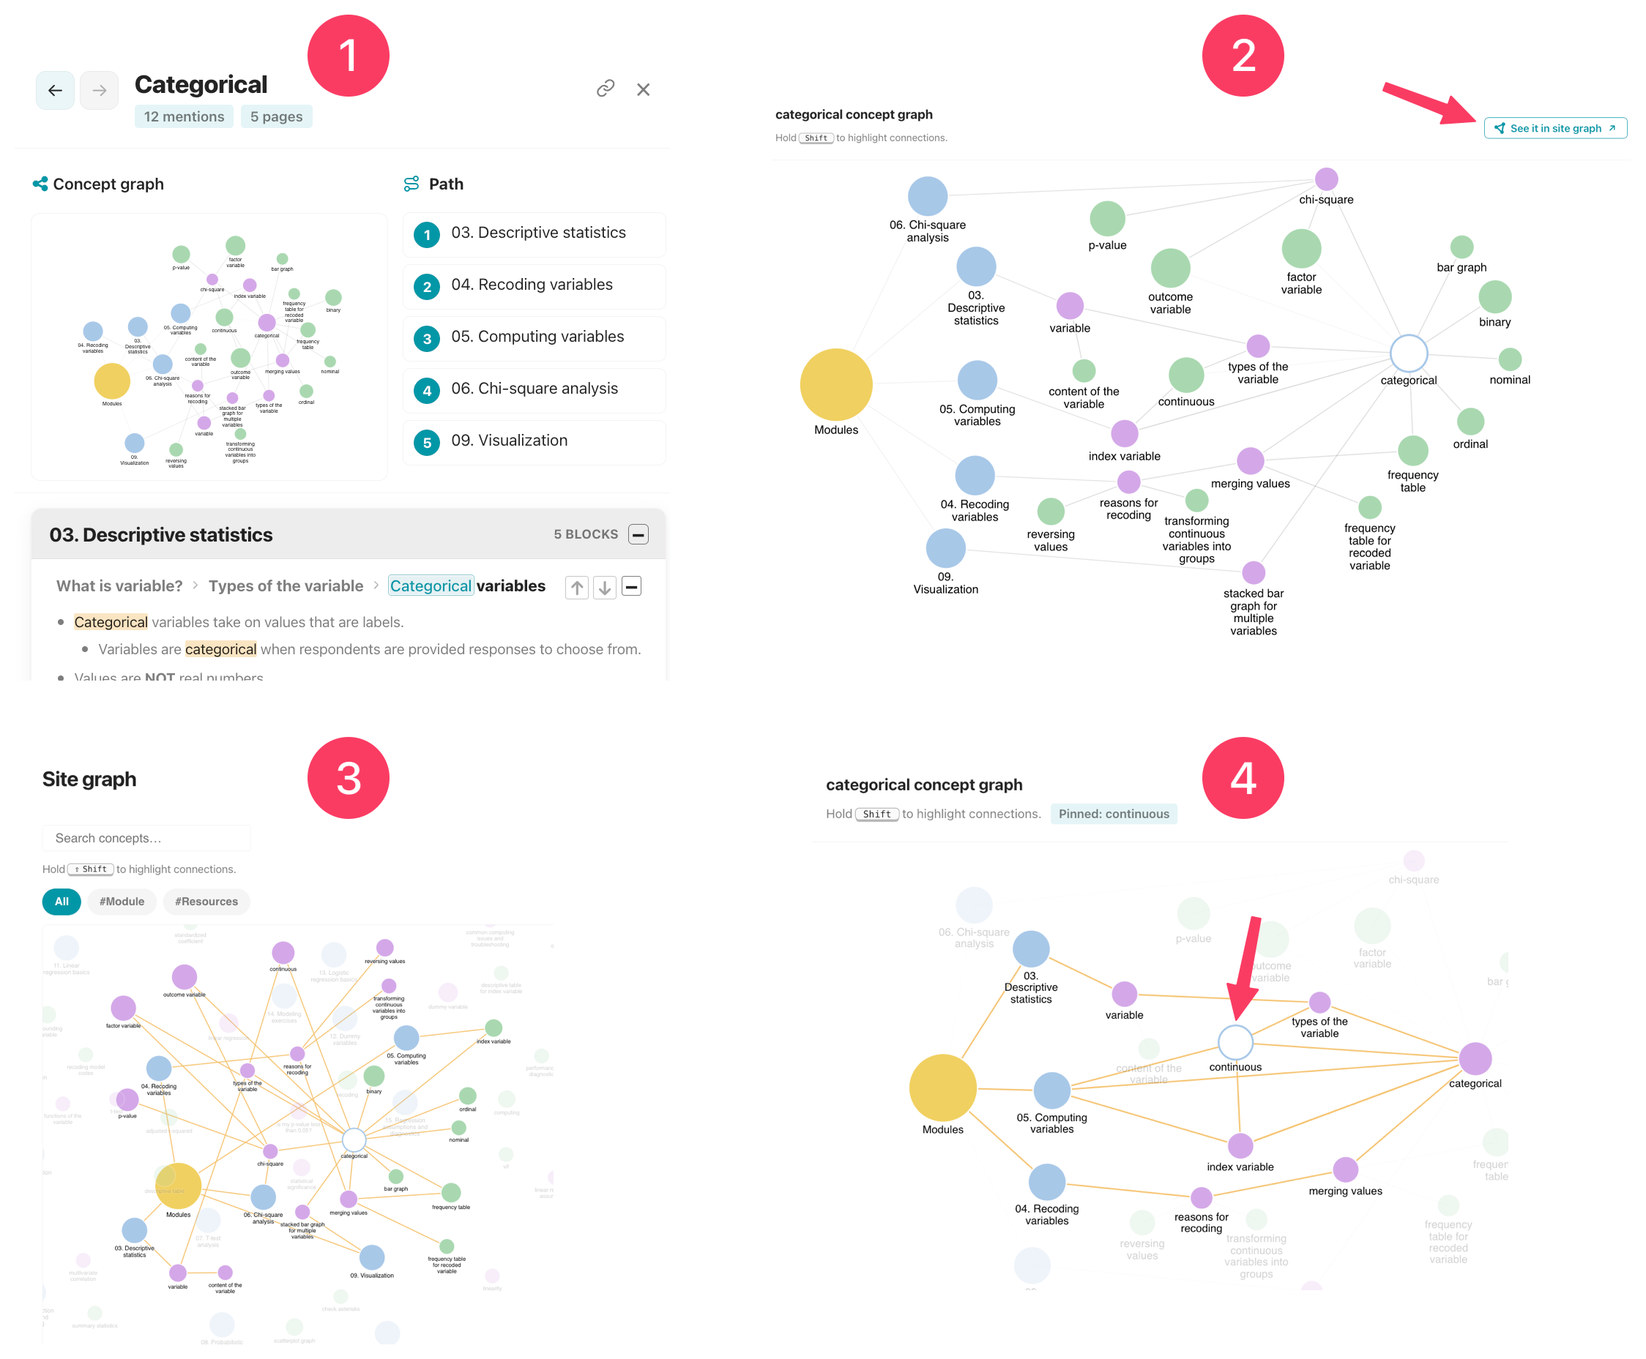
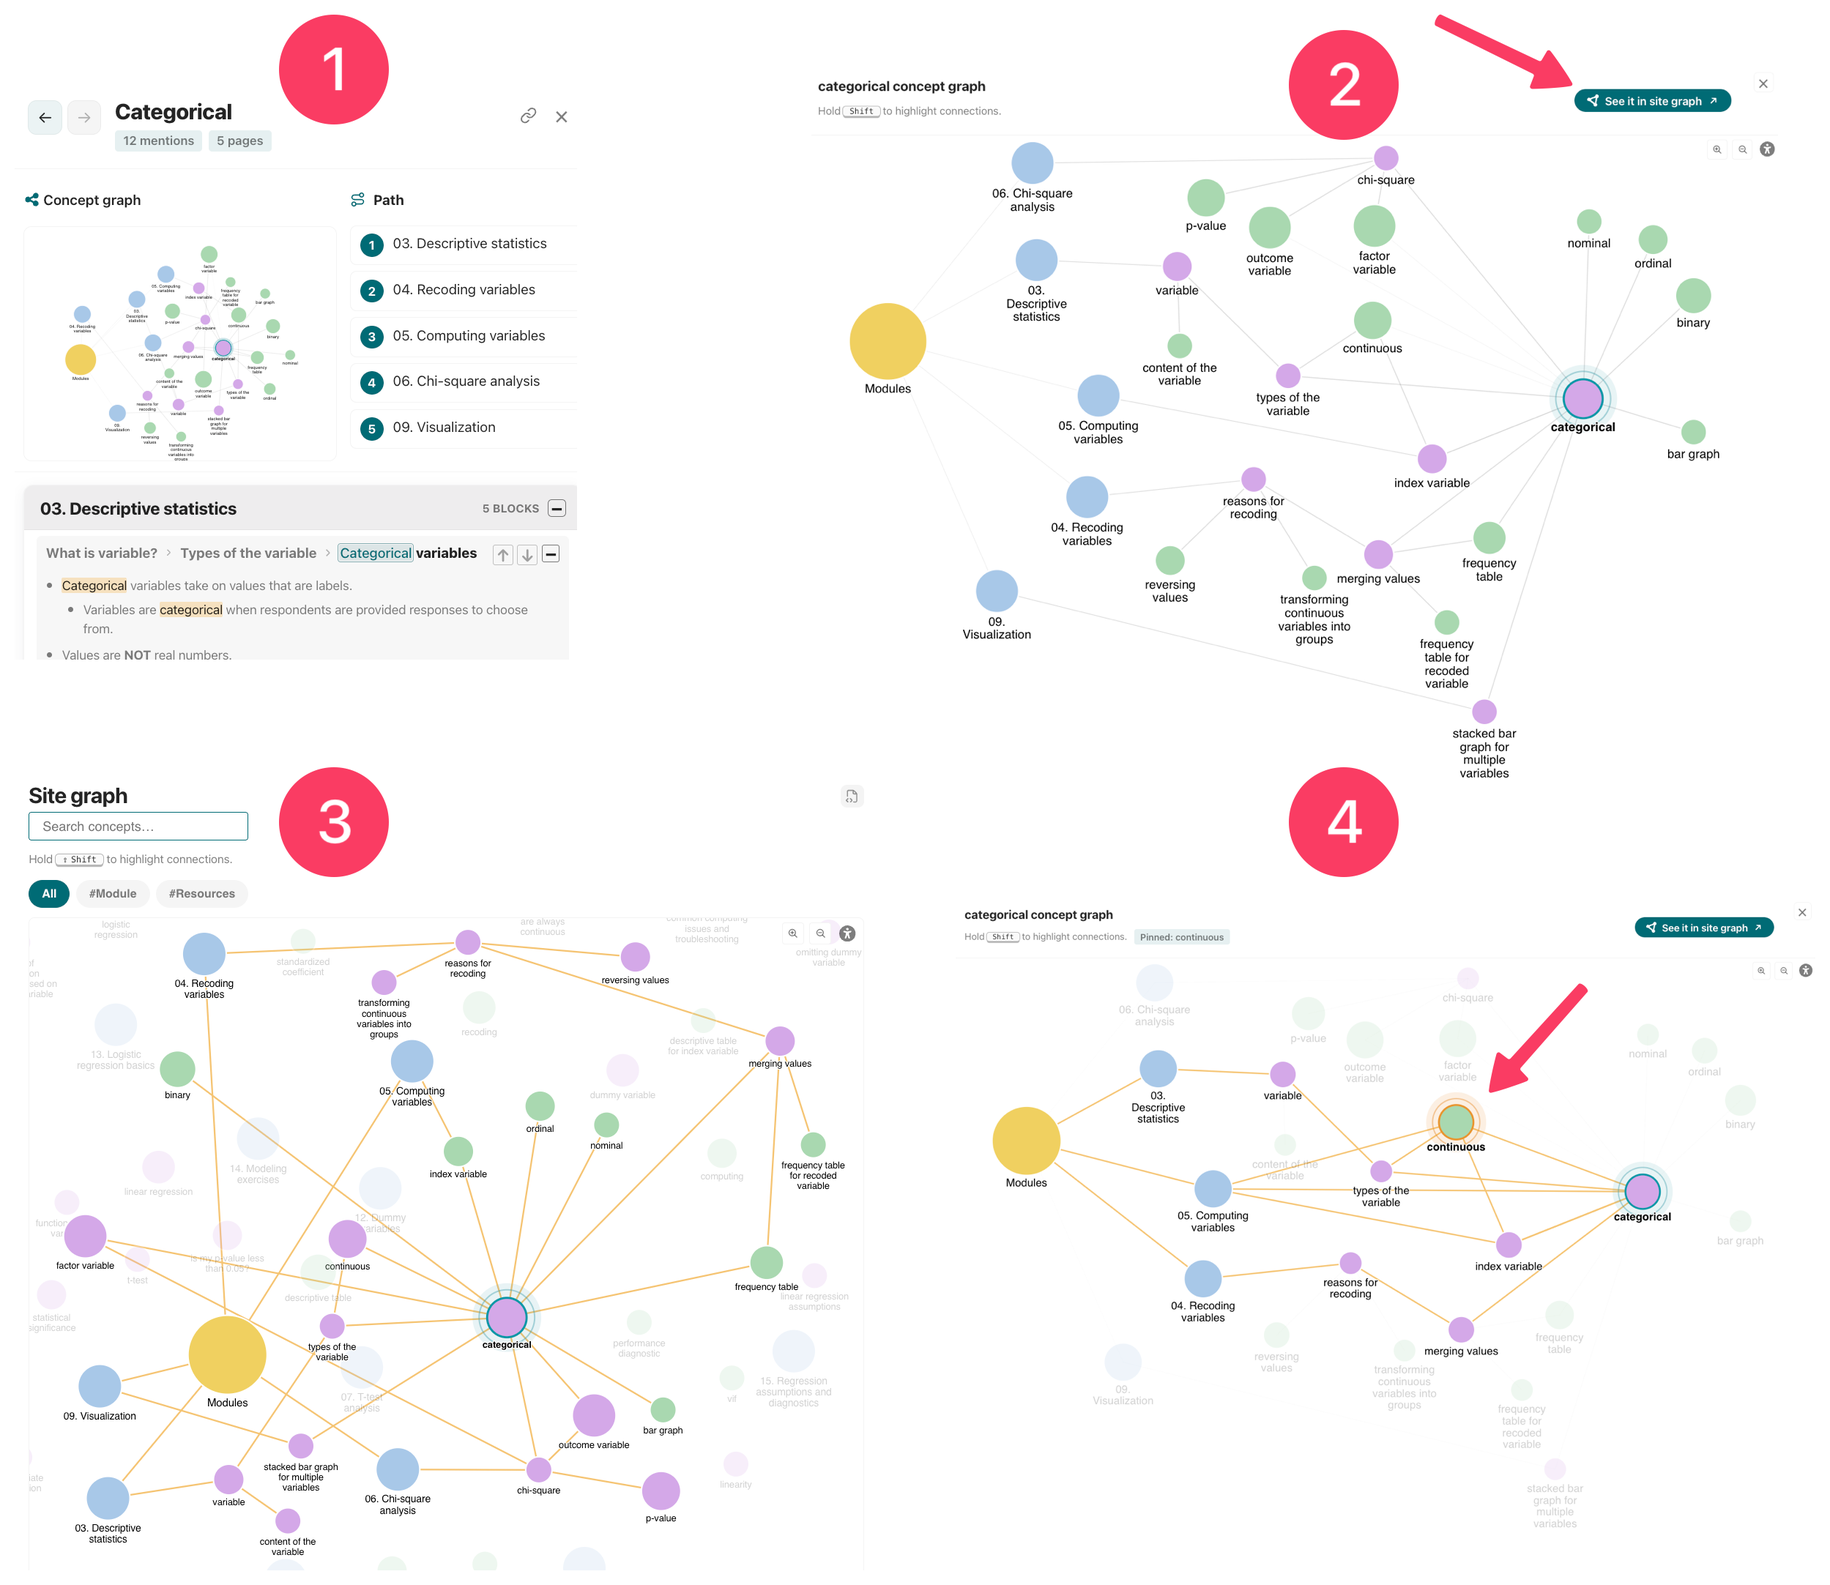
edit

diff --git a/docs/explore/glossary.md b/docs/explore/glossary.md
@@ -262,8 +262,8 @@ Click any keyword to see every occurrence with full context.
 
 ## Z
 
-<strong><button type="button" class="wikilink" data-keyword="zensical" aria-haspopup="true">zensical</button></strong> — *3 pages*  
-[What is Knotis?](getting-started/what-is-knotis/) · [Install Knotis](getting-started/install-knotis/) · [Search feature](features/search-feature/)
+<strong><button type="button" class="wikilink" data-keyword="zensical" aria-haspopup="true">zensical</button></strong> — *2 pages*  
+[Install Knotis](getting-started/install-knotis/) · [Search feature](features/search-feature/)
 
 <strong><button type="button" class="wikilink" data-keyword="zensical.toml" aria-haspopup="true">zensical.toml</button></strong> — *11 pages*  
 [Install Knotis](getting-started/install-knotis/) · [Author the site](getting-started/author-the-site/) · [Publish the site](getting-started/publish-the-site/) · [Wikilinks feature](features/wikilinks-feature/) · [Pane feature](features/pane-feature/) · [Graphs feature](features/graphs-feature/) · [Content tags feature](features/content-tags-feature/) · [Glossary feature](features/glossary-feature/) · [Slide mode feature](features/slide-mode-feature/) · [Search feature](features/search-feature/) · [Read aloud feature](features/read-aloud-feature/)
@@ -349,9 +349,6 @@ Click any keyword to see every occurrence with full context.
 <strong><button type="button" class="wikilink" data-keyword="yaml" aria-haspopup="true">yaml</button></strong> — *3 mentions · 1 page*  
 [Author the site](getting-started/author-the-site/)
 
-<strong><button type="button" class="wikilink" data-keyword="zensical" aria-haspopup="true">zensical</button></strong> — *3 mentions · 3 pages*  
-[What is Knotis?](getting-started/what-is-knotis/) · [Install Knotis](getting-started/install-knotis/) · [Search feature](features/search-feature/)
-
 <strong><button type="button" class="wikilink" data-keyword="admonition" aria-haspopup="true">admonition</button></strong> — *2 mentions · 2 pages*  
 [What is Knotis?](getting-started/what-is-knotis/) · [Outlining feature](features/outlining-feature/)
 
@@ -384,6 +381,9 @@ Click any keyword to see every occurrence with full context.
 
 <strong><button type="button" class="wikilink" data-keyword="video controls" aria-haspopup="true">video controls</button></strong> — *2 mentions · 2 pages*  
 [What is Knotis?](getting-started/what-is-knotis/) · [Video controls feature](features/video-controls-feature/)
+
+<strong><button type="button" class="wikilink" data-keyword="zensical" aria-haspopup="true">zensical</button></strong> — *2 mentions · 2 pages*  
+[Install Knotis](getting-started/install-knotis/) · [Search feature](features/search-feature/)
 
 <strong><button type="button" class="wikilink" data-keyword="alias" aria-haspopup="true">alias</button></strong> — *1 mention · 1 page*  
 [Wikilinks feature](features/wikilinks-feature/)
@@ -484,15 +484,15 @@ Click any keyword to see every occurrence with full context.
 
 ## What is Knotis?
 
-> 26 new
+> 25 new
 
-<div class="glossary-module-concepts"><span class="glossary-tag"><strong><button type="button" class="wikilink" data-keyword="knotis" aria-haspopup="true">knotis</button></strong></span><span class="glossary-tag"><strong><button type="button" class="wikilink" data-keyword="zensical" aria-haspopup="true">zensical</button></strong></span><span class="glossary-tag"><strong><button type="button" class="wikilink" data-keyword="features at glance" aria-haspopup="true">features at glance</button></strong></span><span class="glossary-tag"><strong><button type="button" class="wikilink" data-keyword="outlining" aria-haspopup="true">outlining</button></strong></span><span class="glossary-tag"><strong><button type="button" class="wikilink" data-keyword="bullets" aria-haspopup="true">bullets</button></strong></span><span class="glossary-tag"><strong><button type="button" class="wikilink" data-keyword="numbered list" aria-haspopup="true">numbered list</button></strong></span><span class="glossary-tag"><strong><button type="button" class="wikilink" data-keyword="markdown table" aria-haspopup="true">markdown table</button></strong></span><span class="glossary-tag"><strong><button type="button" class="wikilink" data-keyword="image" aria-haspopup="true">image</button></strong></span><span class="glossary-tag"><strong><button type="button" class="wikilink" data-keyword="mermaid diagram" aria-haspopup="true">mermaid diagram</button></strong></span><span class="glossary-tag"><strong><button type="button" class="wikilink" data-keyword="admonition" aria-haspopup="true">admonition</button></strong></span><span class="glossary-tag"><strong><button type="button" class="wikilink" data-keyword="code block" aria-haspopup="true">code block</button></strong></span><span class="glossary-tag"><strong><button type="button" class="wikilink" data-keyword="video" aria-haspopup="true">video</button></strong></span><span class="glossary-tag"><strong><button type="button" class="wikilink" data-keyword="wikilink" aria-haspopup="true">wikilink</button></strong></span><span class="glossary-tag"><strong><button type="button" class="wikilink" data-keyword="pane" aria-haspopup="true">pane</button></strong></span><span class="glossary-tag"><strong><button type="button" class="wikilink" data-keyword="reference" aria-haspopup="true">reference</button></strong></span><span class="glossary-tag"><strong><button type="button" class="wikilink" data-keyword="sample reference" aria-haspopup="true">sample reference</button></strong></span><span class="glossary-tag"><strong><button type="button" class="wikilink" data-keyword="graphs" aria-haspopup="true">graphs</button></strong></span><span class="glossary-tag"><strong><button type="button" class="wikilink" data-keyword="concept graph" aria-haspopup="true">concept graph</button></strong></span><span class="glossary-tag"><strong><button type="button" class="wikilink" data-keyword="page graph" aria-haspopup="true">page graph</button></strong></span><span class="glossary-tag"><strong><button type="button" class="wikilink" data-keyword="site graph" aria-haspopup="true">site graph</button></strong></span><span class="glossary-tag"><strong><button type="button" class="wikilink" data-keyword="content tags" aria-haspopup="true">content tags</button></strong></span><span class="glossary-tag"><strong><button type="button" class="wikilink" data-keyword="glossary" aria-haspopup="true">glossary</button></strong></span><span class="glossary-tag"><strong><button type="button" class="wikilink" data-keyword="slide mode" aria-haspopup="true">slide mode</button></strong></span><span class="glossary-tag"><strong><button type="button" class="wikilink" data-keyword="search" aria-haspopup="true">search</button></strong></span><span class="glossary-tag"><strong><button type="button" class="wikilink" data-keyword="read aloud" aria-haspopup="true">read aloud</button></strong></span><span class="glossary-tag"><strong><button type="button" class="wikilink" data-keyword="video controls" aria-haspopup="true">video controls</button></strong></span></div>
+<div class="glossary-module-concepts"><span class="glossary-tag"><strong><button type="button" class="wikilink" data-keyword="knotis" aria-haspopup="true">knotis</button></strong></span><span class="glossary-tag"><strong><button type="button" class="wikilink" data-keyword="features at glance" aria-haspopup="true">features at glance</button></strong></span><span class="glossary-tag"><strong><button type="button" class="wikilink" data-keyword="outlining" aria-haspopup="true">outlining</button></strong></span><span class="glossary-tag"><strong><button type="button" class="wikilink" data-keyword="bullets" aria-haspopup="true">bullets</button></strong></span><span class="glossary-tag"><strong><button type="button" class="wikilink" data-keyword="numbered list" aria-haspopup="true">numbered list</button></strong></span><span class="glossary-tag"><strong><button type="button" class="wikilink" data-keyword="markdown table" aria-haspopup="true">markdown table</button></strong></span><span class="glossary-tag"><strong><button type="button" class="wikilink" data-keyword="image" aria-haspopup="true">image</button></strong></span><span class="glossary-tag"><strong><button type="button" class="wikilink" data-keyword="mermaid diagram" aria-haspopup="true">mermaid diagram</button></strong></span><span class="glossary-tag"><strong><button type="button" class="wikilink" data-keyword="admonition" aria-haspopup="true">admonition</button></strong></span><span class="glossary-tag"><strong><button type="button" class="wikilink" data-keyword="code block" aria-haspopup="true">code block</button></strong></span><span class="glossary-tag"><strong><button type="button" class="wikilink" data-keyword="video" aria-haspopup="true">video</button></strong></span><span class="glossary-tag"><strong><button type="button" class="wikilink" data-keyword="wikilink" aria-haspopup="true">wikilink</button></strong></span><span class="glossary-tag"><strong><button type="button" class="wikilink" data-keyword="pane" aria-haspopup="true">pane</button></strong></span><span class="glossary-tag"><strong><button type="button" class="wikilink" data-keyword="reference" aria-haspopup="true">reference</button></strong></span><span class="glossary-tag"><strong><button type="button" class="wikilink" data-keyword="sample reference" aria-haspopup="true">sample reference</button></strong></span><span class="glossary-tag"><strong><button type="button" class="wikilink" data-keyword="graphs" aria-haspopup="true">graphs</button></strong></span><span class="glossary-tag"><strong><button type="button" class="wikilink" data-keyword="concept graph" aria-haspopup="true">concept graph</button></strong></span><span class="glossary-tag"><strong><button type="button" class="wikilink" data-keyword="page graph" aria-haspopup="true">page graph</button></strong></span><span class="glossary-tag"><strong><button type="button" class="wikilink" data-keyword="site graph" aria-haspopup="true">site graph</button></strong></span><span class="glossary-tag"><strong><button type="button" class="wikilink" data-keyword="content tags" aria-haspopup="true">content tags</button></strong></span><span class="glossary-tag"><strong><button type="button" class="wikilink" data-keyword="glossary" aria-haspopup="true">glossary</button></strong></span><span class="glossary-tag"><strong><button type="button" class="wikilink" data-keyword="slide mode" aria-haspopup="true">slide mode</button></strong></span><span class="glossary-tag"><strong><button type="button" class="wikilink" data-keyword="search" aria-haspopup="true">search</button></strong></span><span class="glossary-tag"><strong><button type="button" class="wikilink" data-keyword="read aloud" aria-haspopup="true">read aloud</button></strong></span><span class="glossary-tag"><strong><button type="button" class="wikilink" data-keyword="video controls" aria-haspopup="true">video controls</button></strong></span></div>
 
 ## Install Knotis
 
-> 13 new<span class="glossary-module-count--recurring"> + 2 recurring</span>
+> 14 new<span class="glossary-module-count--recurring"> + 1 recurring</span>
 
-<div class="glossary-module-concepts"><span class="glossary-tag"><strong><button type="button" class="wikilink" data-keyword="required tools" aria-haspopup="true">required tools</button></strong></span><span class="glossary-tag"><strong><button type="button" class="wikilink" data-keyword="terminal" aria-haspopup="true">terminal</button></strong></span><span class="glossary-tag"><strong><button type="button" class="wikilink" data-keyword="github" aria-haspopup="true">github</button></strong></span><span class="glossary-tag"><strong><button type="button" class="wikilink" data-keyword="knotis installation" aria-haspopup="true">knotis installation</button></strong></span><span class="glossary-tag"><strong><button type="button" class="wikilink" data-keyword="site folder" aria-haspopup="true">site folder</button></strong></span><span class="glossary-tag"><strong><button type="button" class="wikilink" data-keyword="scaffold" aria-haspopup="true">scaffold</button></strong></span><span class="glossary-tag"><strong><button type="button" class="wikilink" data-keyword="docs folder" aria-haspopup="true">docs folder</button></strong></span><span class="glossary-tag"><strong><button type="button" class="wikilink" data-keyword="assets" aria-haspopup="true">assets</button></strong></span><span class="glossary-tag"><strong><button type="button" class="wikilink" data-keyword="overrides folder" aria-haspopup="true">overrides folder</button></strong></span><span class="glossary-tag"><strong><button type="button" class="wikilink" data-keyword="zensical.toml" aria-haspopup="true">zensical.toml</button></strong></span><span class="glossary-tag"><strong><button type="button" class="wikilink" data-keyword="build" aria-haspopup="true">build</button></strong></span><span class="glossary-tag"><strong><button type="button" class="wikilink" data-keyword="serve" aria-haspopup="true">serve</button></strong></span><span class="glossary-tag"><strong><button type="button" class="wikilink" data-keyword="upgrade" aria-haspopup="true">upgrade</button></strong></span><span class="glossary-tag glossary-tag--recurring"><strong><button type="button" class="wikilink" data-keyword="knotis" aria-haspopup="true">knotis</button></strong></span><span class="glossary-tag glossary-tag--recurring"><strong><button type="button" class="wikilink" data-keyword="zensical" aria-haspopup="true">zensical</button></strong></span></div>
+<div class="glossary-module-concepts"><span class="glossary-tag"><strong><button type="button" class="wikilink" data-keyword="required tools" aria-haspopup="true">required tools</button></strong></span><span class="glossary-tag"><strong><button type="button" class="wikilink" data-keyword="terminal" aria-haspopup="true">terminal</button></strong></span><span class="glossary-tag"><strong><button type="button" class="wikilink" data-keyword="github" aria-haspopup="true">github</button></strong></span><span class="glossary-tag"><strong><button type="button" class="wikilink" data-keyword="knotis installation" aria-haspopup="true">knotis installation</button></strong></span><span class="glossary-tag"><strong><button type="button" class="wikilink" data-keyword="site folder" aria-haspopup="true">site folder</button></strong></span><span class="glossary-tag"><strong><button type="button" class="wikilink" data-keyword="scaffold" aria-haspopup="true">scaffold</button></strong></span><span class="glossary-tag"><strong><button type="button" class="wikilink" data-keyword="docs folder" aria-haspopup="true">docs folder</button></strong></span><span class="glossary-tag"><strong><button type="button" class="wikilink" data-keyword="assets" aria-haspopup="true">assets</button></strong></span><span class="glossary-tag"><strong><button type="button" class="wikilink" data-keyword="overrides folder" aria-haspopup="true">overrides folder</button></strong></span><span class="glossary-tag"><strong><button type="button" class="wikilink" data-keyword="zensical.toml" aria-haspopup="true">zensical.toml</button></strong></span><span class="glossary-tag"><strong><button type="button" class="wikilink" data-keyword="build" aria-haspopup="true">build</button></strong></span><span class="glossary-tag"><strong><button type="button" class="wikilink" data-keyword="serve" aria-haspopup="true">serve</button></strong></span><span class="glossary-tag"><strong><button type="button" class="wikilink" data-keyword="upgrade" aria-haspopup="true">upgrade</button></strong></span><span class="glossary-tag glossary-tag--recurring"><strong><button type="button" class="wikilink" data-keyword="knotis" aria-haspopup="true">knotis</button></strong></span><span class="glossary-tag"><strong><button type="button" class="wikilink" data-keyword="zensical" aria-haspopup="true">zensical</button></strong></span></div>
 
 ## Author the site
 

diff --git a/docs/features/graphs-feature.md b/docs/features/graphs-feature.md
@@ -33,13 +33,13 @@ tags:
         - It can be filtered by the [[page tags]].
 ## Browsing [[site graph]]
 - ![Four-panel sequence showing how to browse the site graph: select a concept, open its pane with concept graph and path, hold Shift to highlight its connections, then click a connection to open where two concepts are mentioned together.](../assets/attachments/features/graphs-feature/site-graph-pane.png)
-    1. The default view. The user clicks on "standardized coefficient".
+    1. The default view. The user clicks on "adjusted  r-squared".
     2. The pane opens with:
-        1. "Standardized coefficient" [[concept graph]].
+        1. "Adjusted R-squared" [[concept graph]].
         2. Its [[path]], showing the two pages mentions this concept.
         3. The context.
     3. This time, the user hovers "standardized coefficient" and holds ++shift++ to highlight its connections.
-        1. This is the [[concept graph]] of "standardized coefficient" within the site graph.
+        1. This is the [[concept graph]] of "Adjusted R-squared" within the site graph.
             1. When a site graph freeze is active, sibling concept links appear. Sibling links are normally hidden from the base site graph.
         2. Just like in any graph, the links are clickable. The user clicks the link between "confounding variable" and "linear regression."
     4. The pane opens the context where "confounding variable" and "linear regression" are mentioned together.

diff --git a/docs/index.md b/docs/index.md
@@ -7,9 +7,9 @@ knotis_content:
 
 ![The Knotis logo.](assets/attachments/0-logo/knotis-lockup.png#only-light){align=left width="300" }
 ![The Knotis logo.](assets/attachments/0-logo/knotis-lockup-dark.png#only-dark){align=left width="300" }
-Knotis is a teaching-focused [Zensical](https://zensical.org){: target="_blank" rel="noopener" } wrapper. 
+Knotis is a teaching-focused extension to [Zensical](https://zensical.org){: target="_blank" rel="noopener" }. 
 
-It turns Markdown notes into a website where ideas are connected.
+It turns Markdown pages into a website where ideas are connected.
 
 It is built for **instructional materials**.
 
@@ -26,8 +26,8 @@ It is built for **instructional materials**.
         ```
             - :lucide-download: [Installation details](../getting-started/install-knotis.md)
     === ":fontawesome-brands-windows: Windows"
-        - ```powershell
-        python3 -m venv .venv
+        - ```console
+        python -m venv .venv
         .venv\Scripts\activate
         pip install knotis
         ```
